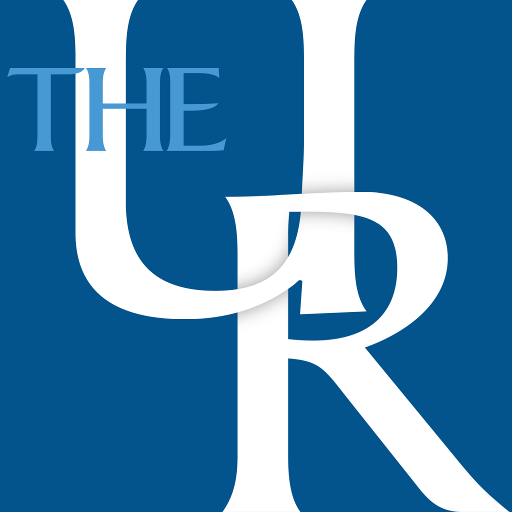
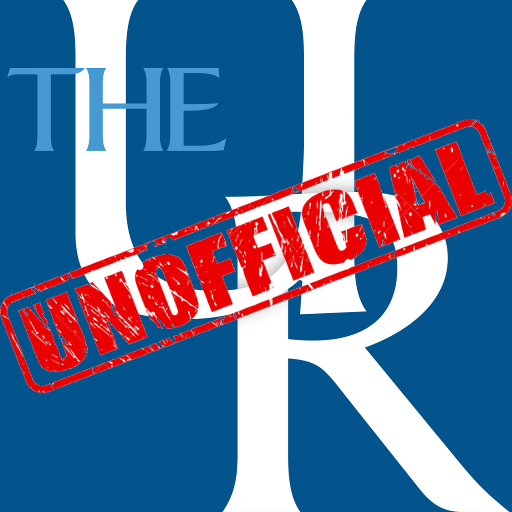
update skill to comply with certification suggestion from Amazon

Changed region(s): [[0.0, 0.2188, 1.0, 0.7812]]

diff --git a/lambda_function.py b/lambda_function.py
@@ -1,10 +1,7 @@
 """
-This sample demonstrates a simple skill built with the Amazon Alexa Skills Kit.
-The Intent Schema, Custom Slots, and Sample Utterances for this skill, as well
-as testing instructions are located at http://amzn.to/1LzFrj6
-
-For additional samples, visit the Alexa Skills Kit Getting Started guide at
-http://amzn.to/1LGWsLG
+This is a simply skill that reads (text to speech) the daily upper room
+devotional. This skill in unofficial and not authorized by the Upper Room
+organization.
 """
 
 from __future__ import print_function
@@ -12,9 +9,6 @@ import urllib
 import re
 import time
 import BeautifulSoup
-
-
-
 
 # --------------- Helpers that build all of the responses ----------------------
 
@@ -26,18 +20,13 @@ def build_speechlet_response(title, output, reprompt_text, should_end_session):
         },
         "card": {
             "type": "Standard",
-            "title": "Upper Room - " + title,
+            "title": "Unofficial Upper Room - " + title,
             "text": output,
             "image": {
                 "smallImageUrl": "https://s3.amazonaws.com/dbainbri-alexa-card-images/images/ur_small.png",
                 "largeImageUrl": "https://s3.amazonaws.com/dbainbri-alexa-card-images/images/ur_large.png"
             }
         },
-#        'card': {
-#            'type': 'Simple',
-#            'title': "Upper Room - " + title,
-#            'content': output
-#        },
         'reprompt': {
             'outputSpeech': {
                 'type': 'PlainText',
@@ -55,27 +44,35 @@ def build_response(session_attributes, speechlet_response):
         'response': speechlet_response
     }
 
-
 # --------------- Functions that control the skill's behavior ------------------
 def strip_html(d):
-	cleanr = re.compile('<.*?>')
-	cleanr2 = re.compile('&[a-z]*;')
-	cleantext = re.sub(cleanr2, '', re.sub(cleanr, '', d))
+    """ Remove bracketed strings and special characters from the given input.
+    """
+    cleanr = re.compile('<.*?>')
+    cleanr2 = re.compile('&[a-z]*;')
+    cleantext = re.sub(cleanr2, '', re.sub(cleanr, '', d))
 
-	cleanr = re.compile
-	return cleantext
+    cleanr = re.compile
+    return cleantext
 
 def strip_verse_numbers(d):
+    """ Removes verse numbers from a bible passage based on patterns
+    """
     cleanr = re.compile('[0-9]+:[0-9]+[^-]')
     cleantext = re.sub(cleanr, '', d)
     return cleantext
 
 def add_pause(d):
+    """ Insures a space after a period so that the text to speech engine
+    will pause
+    """
     cleanr = re.compile('\.')
     cleantext = re.sub(cleanr, '. ', d)
     return cleantext
 
 def strip_copyright(d):
+    """ Strip the copyright from the passage reading.
+    """
     cleanr = re.compile('The scripture quotation is from.*')
     cleantext = re.sub(cleanr, '. ', d)
     return cleantext
@@ -87,20 +84,23 @@ def get_welcome_response():
 
     session_attributes = {}
     card_title = "Welcome"
-    speech_output = "Welcome to the Alexa Upper Room Skill. " \
+    speech_output = "Welcome to the Unofficial Upper Room Skill. " \
                     "This skill can read the passage, message, thought for the day, " \
                     "prayer focus, prayer, and author for the day's upper " \
-                    "room devotional."
+                    "room devotional. This skill is not sponsored, endorsed, or " \
+                    "authorized by the Upper Room organization. " \
+		    "For example, you can have the Unofficial Upper Room skill read " \
+		    "today's Bible passage by saying, \"Read the passage\"." \
+		    "What would you like the Unofficial Upper Room to read?"
 
-    reprompt_text = ""
-    should_end_session = True
+    reprompt_text = "What would you like the Unofficial Upper Room to read?"
+    should_end_session = False
     return build_response(session_attributes, build_speechlet_response(
         card_title, speech_output, reprompt_text, should_end_session))
 
-
 def handle_session_end_request():
     card_title = "Session Ended"
-    speech_output = "Thank you for trying the Upper Room Skill. " \
+    speech_output = "Thank you for trying the Unofficial Room Skill. " \
                     "God bless you."
     # Setting this to true ends the session and exits the skill.
     should_end_session = True

diff --git a/README.md b/README.md
@@ -1,5 +1,5 @@
-# Upper Room Alexa Skill
-The Upper Room Alexa skill provides an interface from Amazon's Alexa (echo)
+# Unofficial Upper Room Alexa Skill
+The Unofficial Upper Room Alexa skill provides an interface from Amazon's Alexa (echo)
 home devices to the daily Upper Room devotional information hosted at
 http://devotional.upperroom.org.
 
@@ -17,13 +17,13 @@ daily devotional, including:
 ## Commands
 To have Alexa read the Upper Room daily the following *utterances* can be used
 
-- Bible Passage - *Alexa ask the Upper Room to read the Bible passage*
-- Bible Passage Snippet - *Alexa ask the Upper Room to read the snippet*
-- Devotional Message - *Alexa ask the Upper Room to read the message*
-- Devotional Message Author - *Alexa ask the Upper Room who is the author*
-- Though for the Day - *Alexa ask the Upper Room what is the thought for the day*
-- Prayer Focus - *Alexa ask the Upper Room what is the prayer focus*
-- Prayer - *Alexa ask the Upper Room to read the prayer*
+- Bible Passage - *Alexa ask the Unofficial Upper Room to read the Bible passage*
+- Bible Passage Snippet - *Alexa ask the Unofficial Upper Room to read the snippet*
+- Devotional Message - *Alexa ask the Unofficial Upper Room to read the message*
+- Devotional Message Author - *Alexa ask the Unofficial Upper Room who is the author*
+- Though for the Day - *Alexa ask the Unofficial Upper Room what is the thought for the day*
+- Prayer Focus - *Alexa ask the Unofficial Upper Room what is the prayer focus*
+- Prayer - *Alexa ask the Unofficial Upper Room to read the prayer*
 
 #### Enhancements
 Currently an utterance does not exists to read *all* components of the daily
@@ -31,13 +31,13 @@ devotional or to specify the *day* for the devotional the user wishes to hear.
 Both of these enhancement may be added in the future.
 
 ## Technical
-This skill leverages the daily devotional content provided by the Upper Room
+This skill leverages the daily devotional content provided by the Unofficial Upper Room
 organization through their web URL devotional.upperroom.org and is dependent
 on the `HTML` tags, IDs, and structure of that web site. If the web site
 significantly changes it is likely that this skill will need to updated to
 operate correctly.
 
-It would make my life much easier if the Upper Room exposes the components
+It would make my life much easier if the Unofficial Upper Room exposes the components
 of the daily devotional as separate web services, such that the raw text of the
 devotional could be accessed via a URL such as `http://devotional.upperroom.org/2017-01-01/passage` and `http://devotional.upperroom.org/2017-01-01/message`.
 
